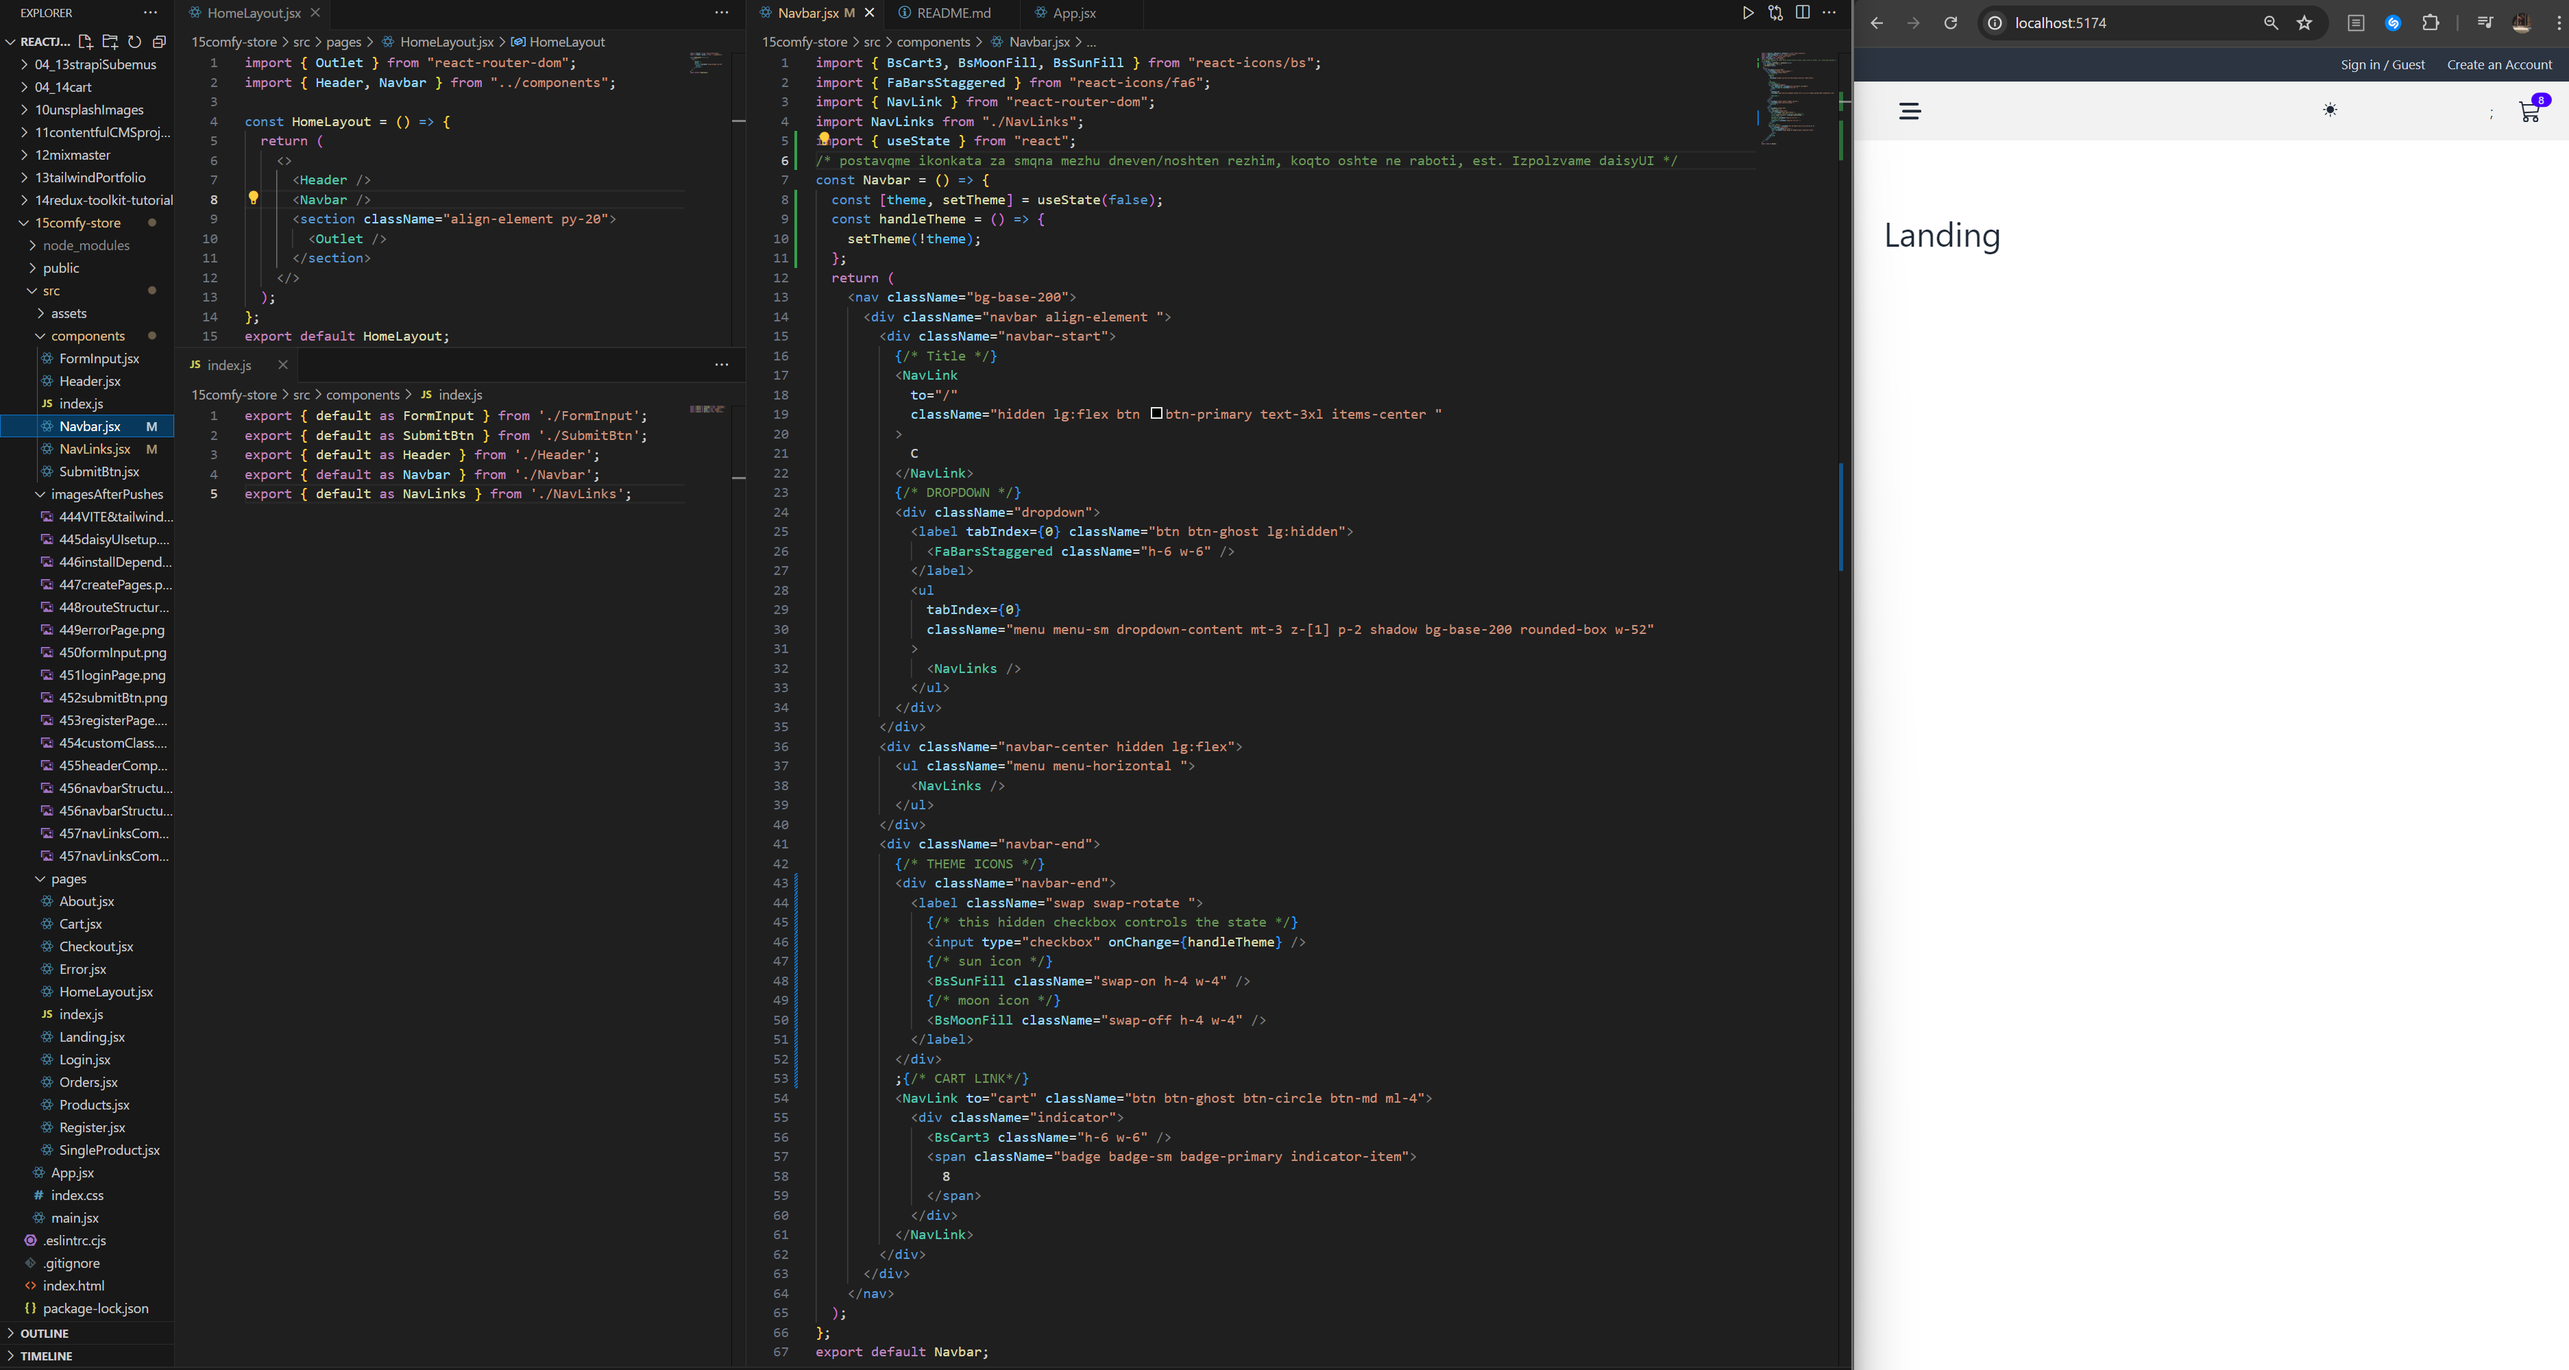
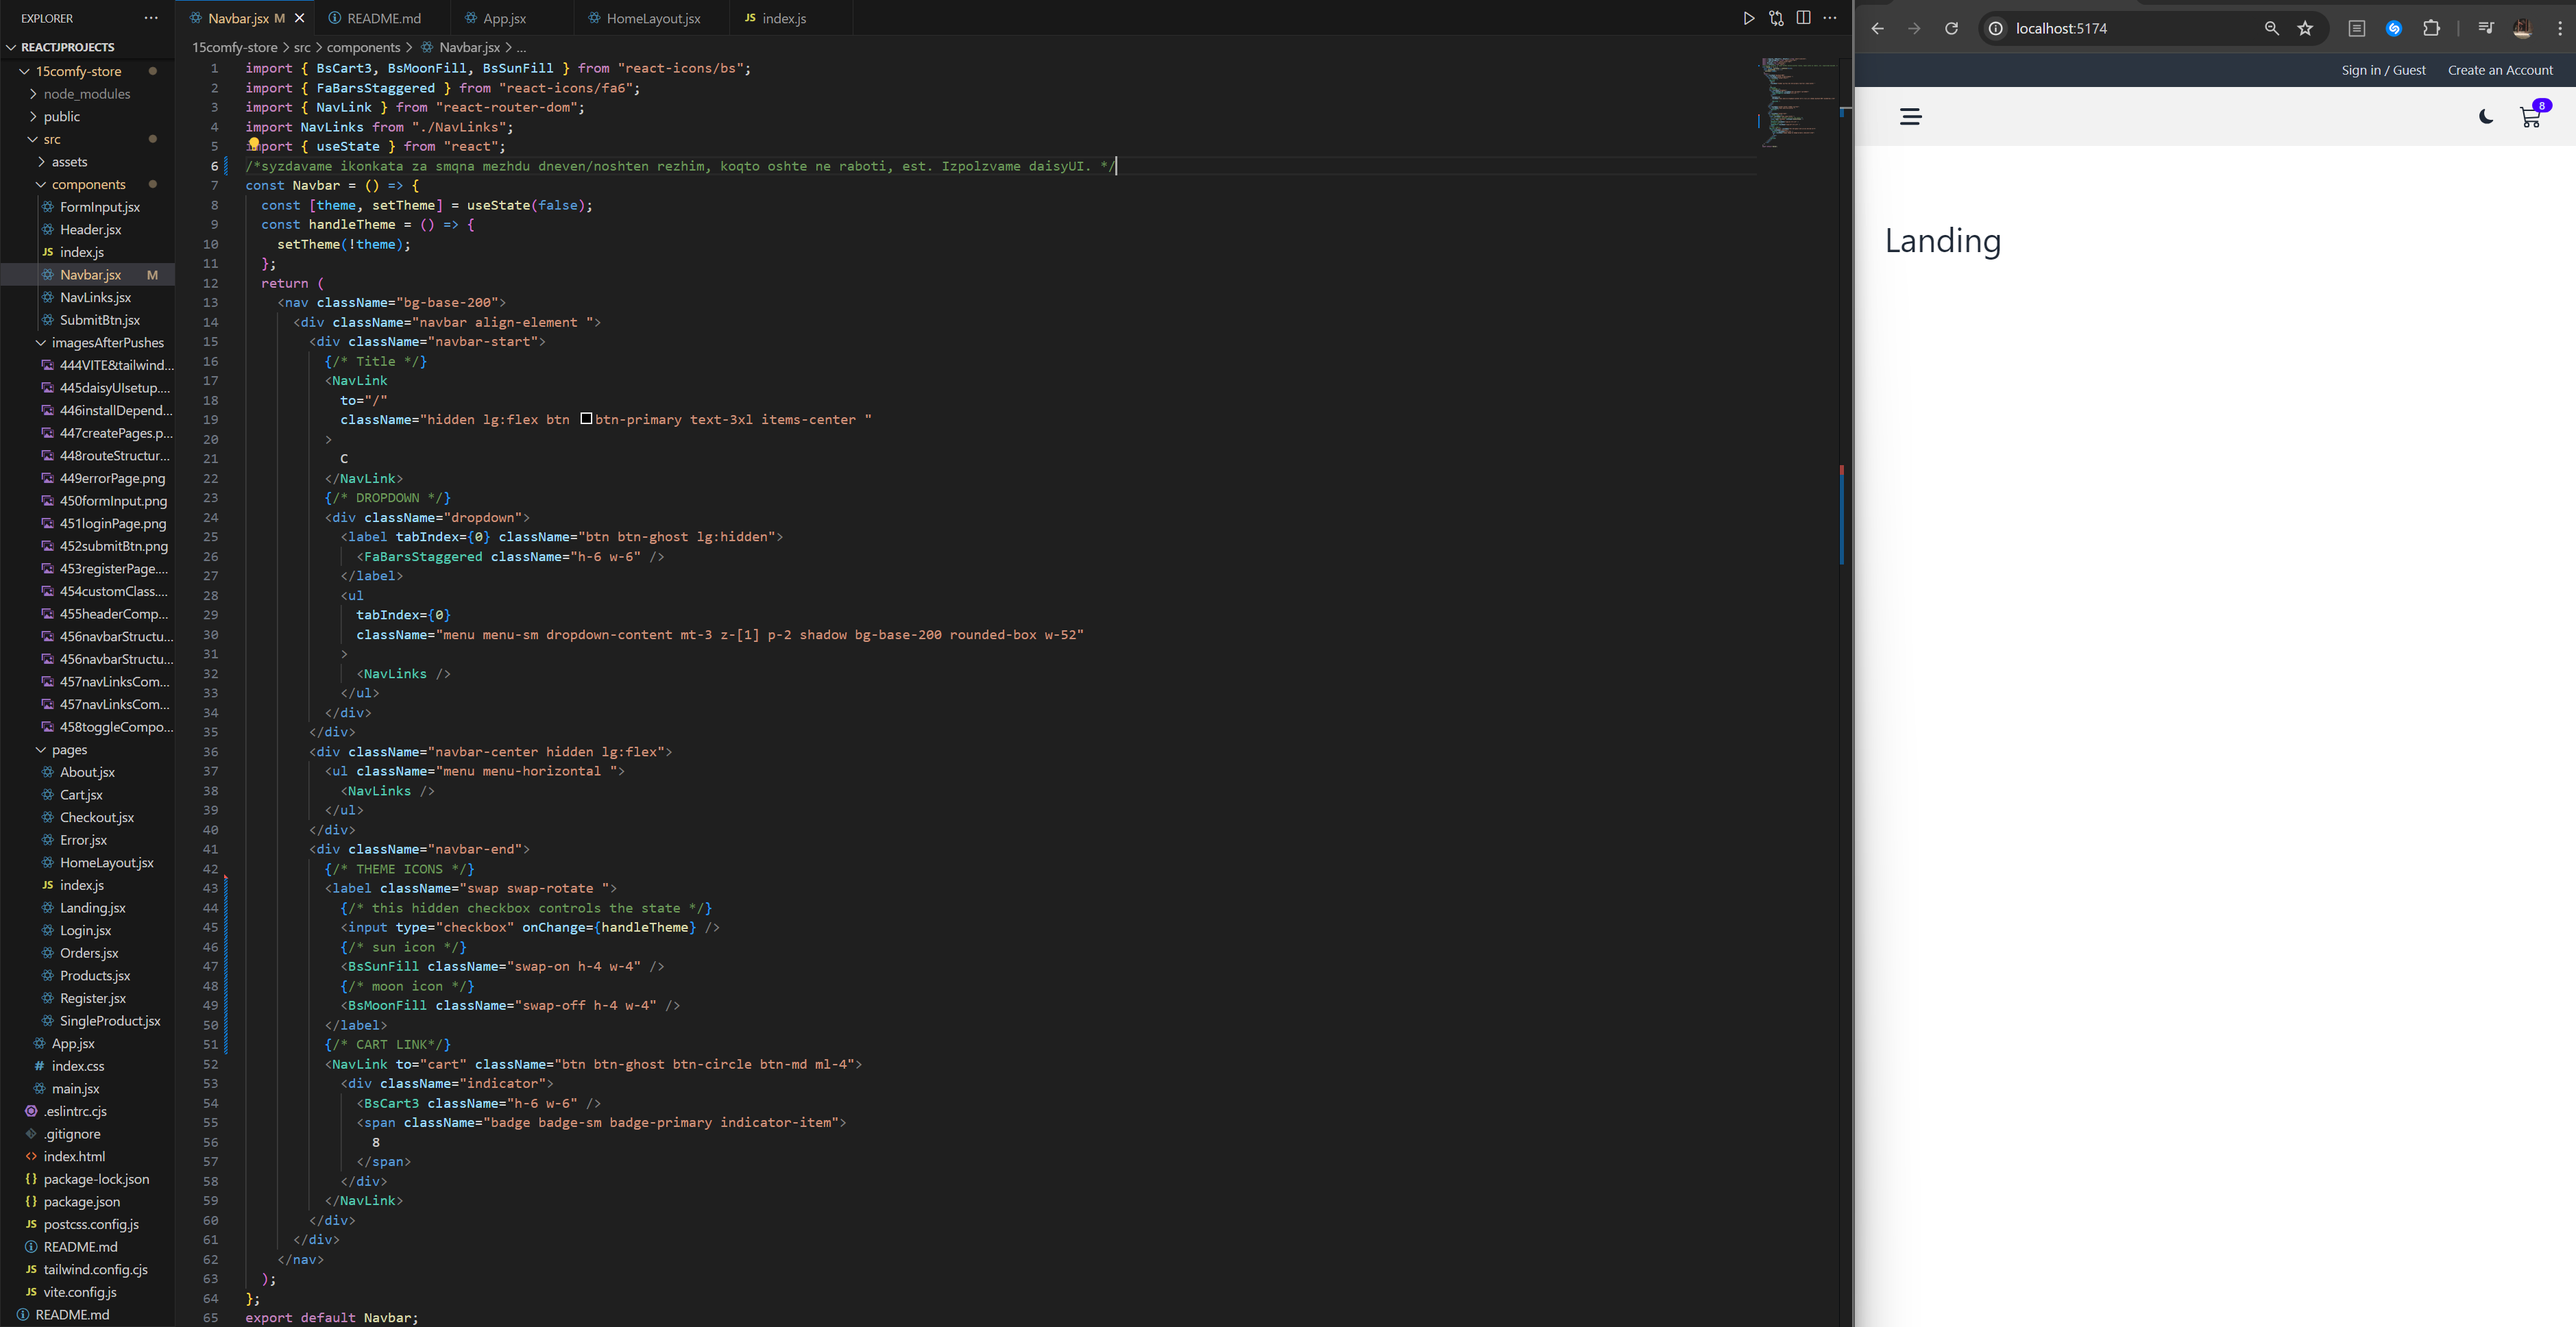
458 toggleComponent (popravka na predishniq, tay kato imashe greshka v koda)
postavqme ikonkata za smqna mezhu dneven/noshten rezhim, koqto oshte ne raboti, est. Izpolzvame daisyUI

diff --git a/15comfy-store/src/components/Navbar.jsx b/15comfy-store/src/components/Navbar.jsx
@@ -3,7 +3,7 @@ import { FaBarsStaggered } from "react-icons/fa6";
 import { NavLink } from "react-router-dom";
 import NavLinks from "./NavLinks";
 import { useState } from "react";
-/* postavqme ikonkata za smqna mezhu dneven/noshten rezhim, koqto oshte ne raboti, est. Izpolzvame daisyUI */
+/*syzdavame ikonkata za smqna mezhdu dneven/noshten rezhim, koqto oshte ne raboti, est. Izpolzvame daisyUI. */
 const Navbar = () => {
   const [theme, setTheme] = useState(false);
   const handleTheme = () => {
@@ -40,17 +40,15 @@ const Navbar = () => {
         </div>
         <div className="navbar-end">
           {/* THEME ICONS */}
-          <div className="navbar-end">
-            <label className="swap swap-rotate ">
-              {/* this hidden checkbox controls the state */}
-              <input type="checkbox" onChange={handleTheme} />
-              {/* sun icon */}
-              <BsSunFill className="swap-on h-4 w-4" />
-              {/* moon icon */}
-              <BsMoonFill className="swap-off h-4 w-4" />
-            </label>
-          </div>
-          ;{/* CART LINK*/}
+          <label className="swap swap-rotate ">
+            {/* this hidden checkbox controls the state */}
+            <input type="checkbox" onChange={handleTheme} />
+            {/* sun icon */}
+            <BsSunFill className="swap-on h-4 w-4" />
+            {/* moon icon */}
+            <BsMoonFill className="swap-off h-4 w-4" />
+          </label>
+          {/* CART LINK*/}
           <NavLink to="cart" className="btn btn-ghost btn-circle btn-md ml-4">
             <div className="indicator">
               <BsCart3 className="h-6 w-6" />
